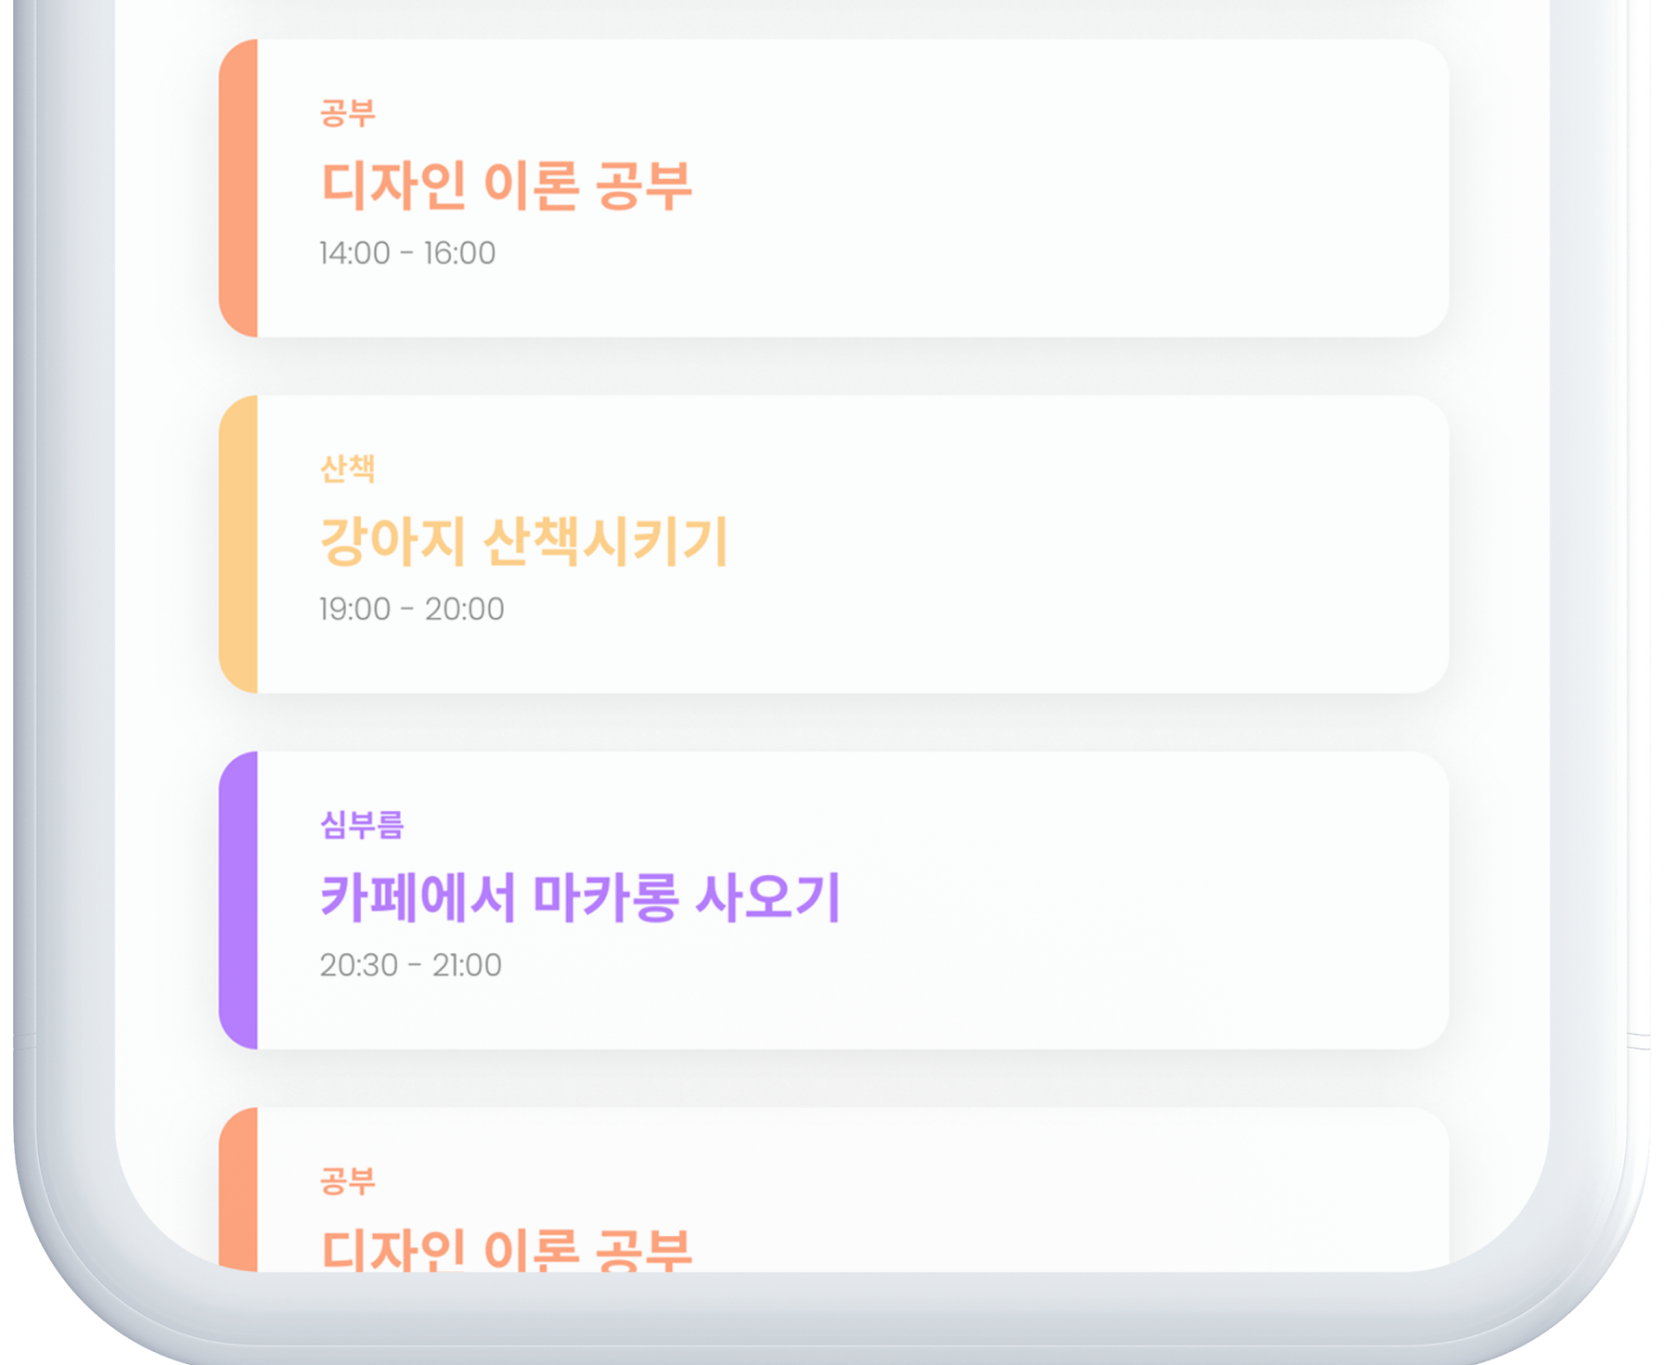
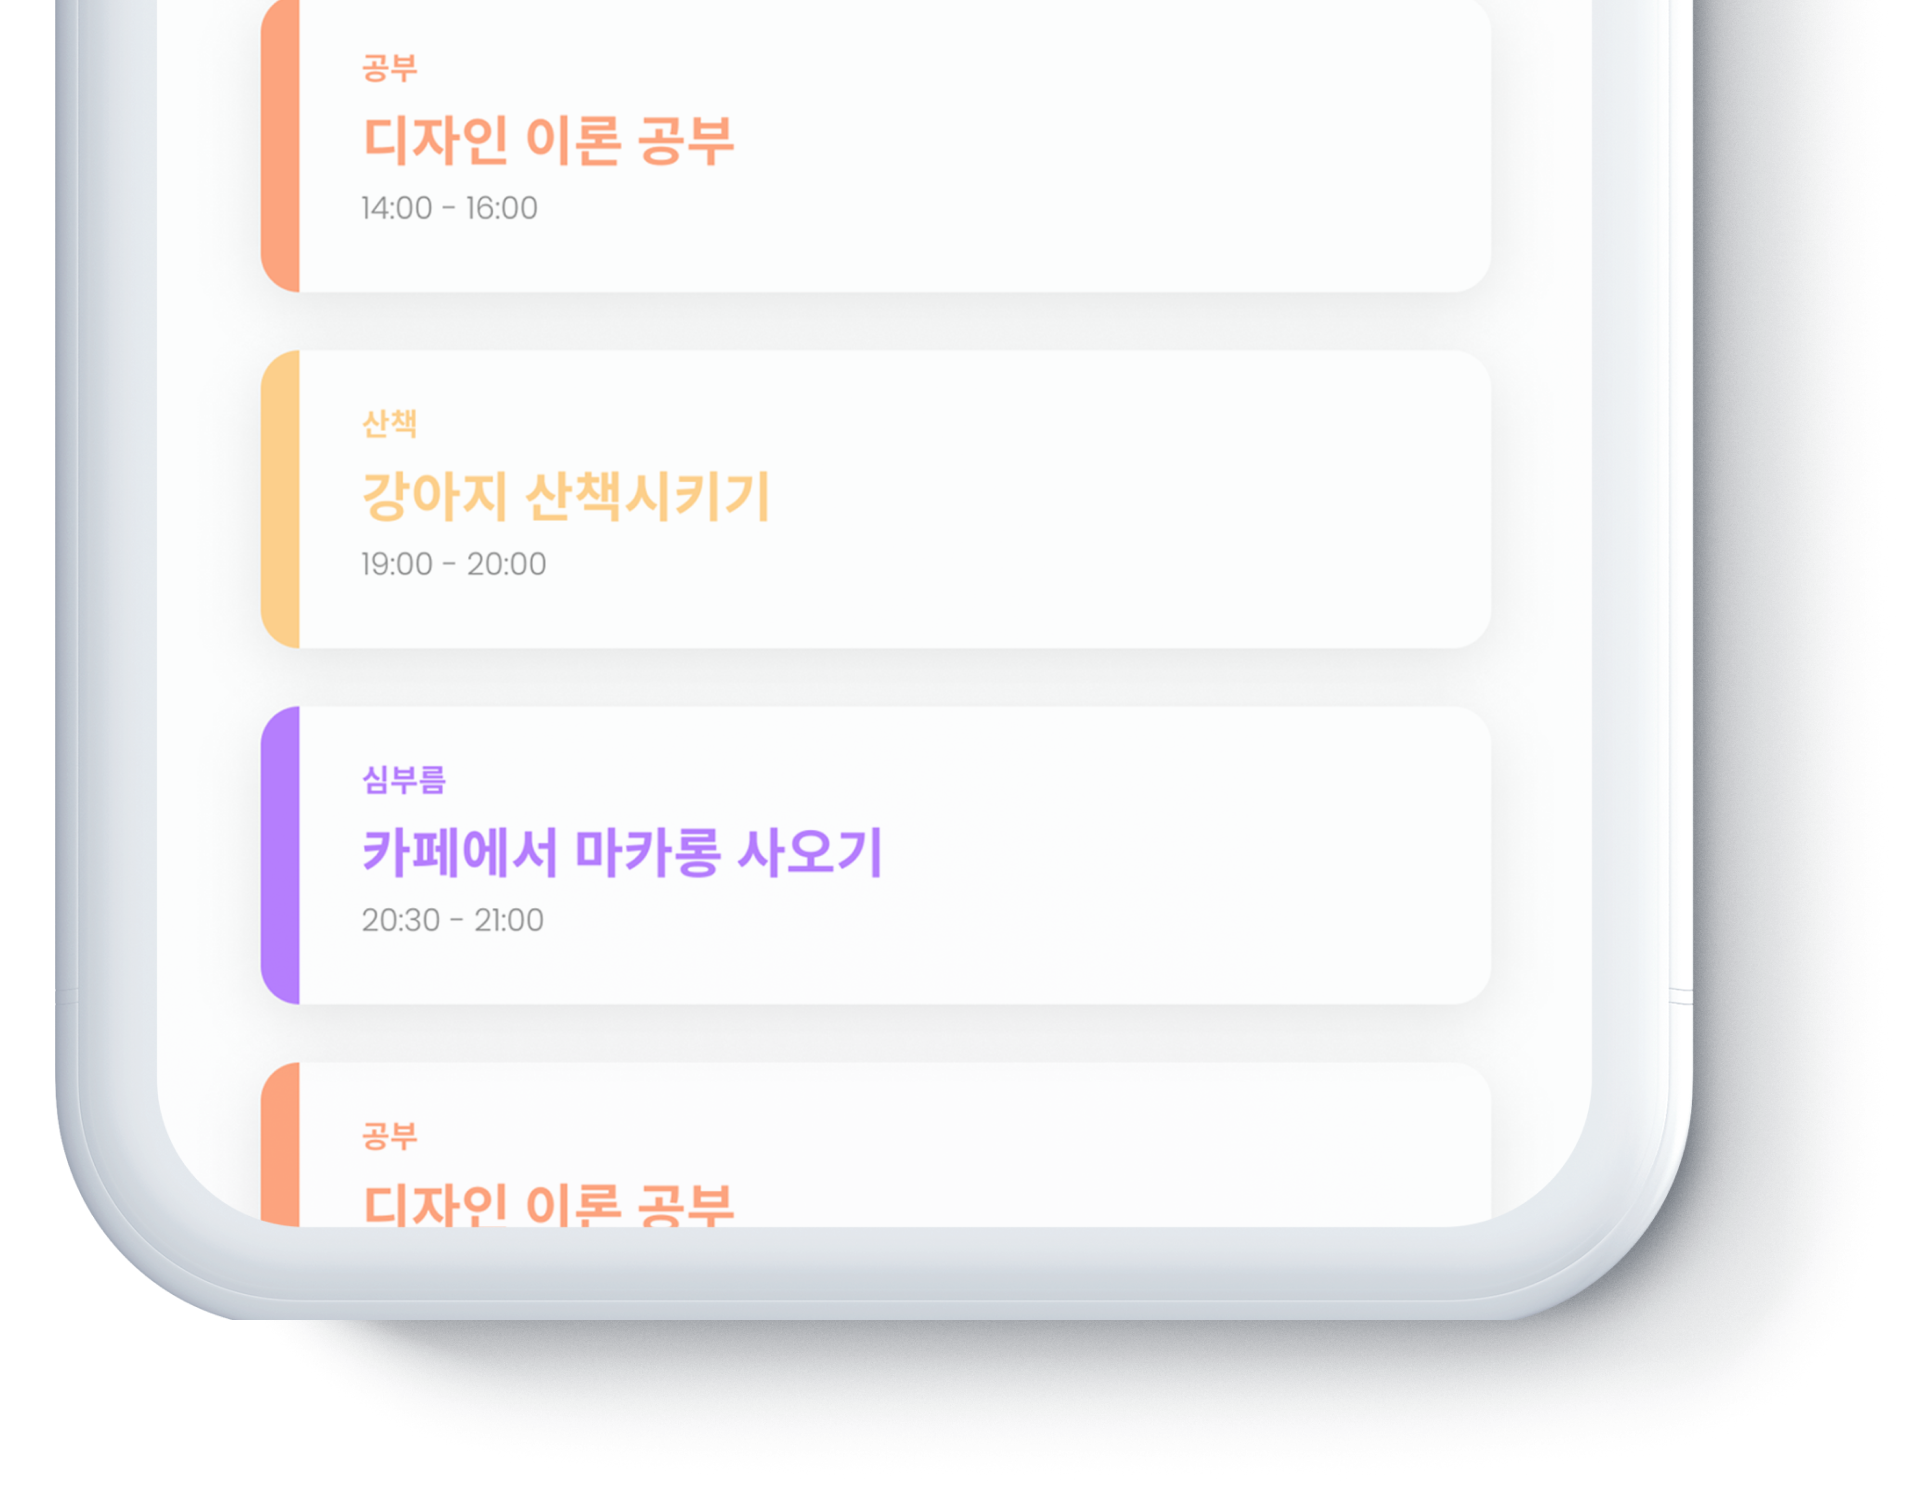
애셋 변경

diff --git a/src/Assets/Section4/Eye1.js b/src/Assets/Section4/Eye1.js
@@ -2,13 +2,29 @@ import * as React from "react";
 
 function Eye1(props) {
   return (
-      <svg width="120" height="121" viewBox="0 0 120 121" fill="none">
-        <path d="M0 120.4H120V0.399999H0V120.4Z" fill="url(#pattern0)"/>
+      <svg width="120"
+           height="121"
+           viewBox="0 0 120 121"
+           fill="none">
+        <path
+            d="M0 120.4H120V0.399999H0V120.4Z"
+            fill="url(#pattern0)"
+        />
         <defs>
-          <pattern id="pattern0" patternContentUnits="objectBoundingBox" width="1" height="1">
-            <use transform="scale(0.015625)"/>
+          <pattern
+              id="pattern0"
+              patternContentUnits="objectBoundingBox"
+              width="1"
+              height="1">
+            <use
+                transform="scale(0.015625)"
+            />
           </pattern>
-          <image id="image0_6908:3942" width="64" height="64"></image>
+          <image
+              id="image0_6908:3942"
+              width="64"
+              height="64">
+          </image>
         </defs>
       </svg>
   );

diff --git a/src/Components/Section4/Section4.js b/src/Components/Section4/Section4.js
@@ -15,11 +15,11 @@ const Section4 = () => {
             <S.ImgSection>
               <S.FirstSection>
                 <S.SubTitle>언제든지 <br/>간편한 일정관리</S.SubTitle>
-                {/*<img src={Top} className="Top" alt="SomeDay-Ui-Img"/>*/}
+                <img src={Top} className="Top" alt="SomeDay-Ui-Img"/>
               </S.FirstSection>
               <S.SecondSection>
                 <S.SubSection>
-                  {/*<img src={Bottom} className="Bottom" alt="SomeDay-Ui-Img"/>*/}
+                  <img src={Bottom} className="Bottom" alt="SomeDay-Ui-Img"/>
                   <S.SubTitle4>오늘의 일정을 <br/>간단하게 확인</S.SubTitle4>
                 </S.SubSection>
                 <S.SubSection2>

diff --git a/src/Components/Section4/style.js b/src/Components/Section4/style.js
@@ -99,7 +99,7 @@ export const SubTitle3 = styled.div`
 export const FirstSection = styled.div`
   .Top {
     width: 40vh;
-    margin-top: 3.2vh
+    margin-top: 1vh
   }
 ;
   width: 100vh;
@@ -153,8 +153,9 @@ export const SubSection = styled.div`
   filter: drop-shadow(0px 4px 4px rgba(0, 0, 0, 0.25));
 
   .Bottom {
-    width: 40vh;
-    margin-left: 19vh
+    width: 38vh;
+    margin-left: 16vh;
+    margin-bottom: 1vh;
   }
 ;
   @media screen and (max-width: 960px) {
